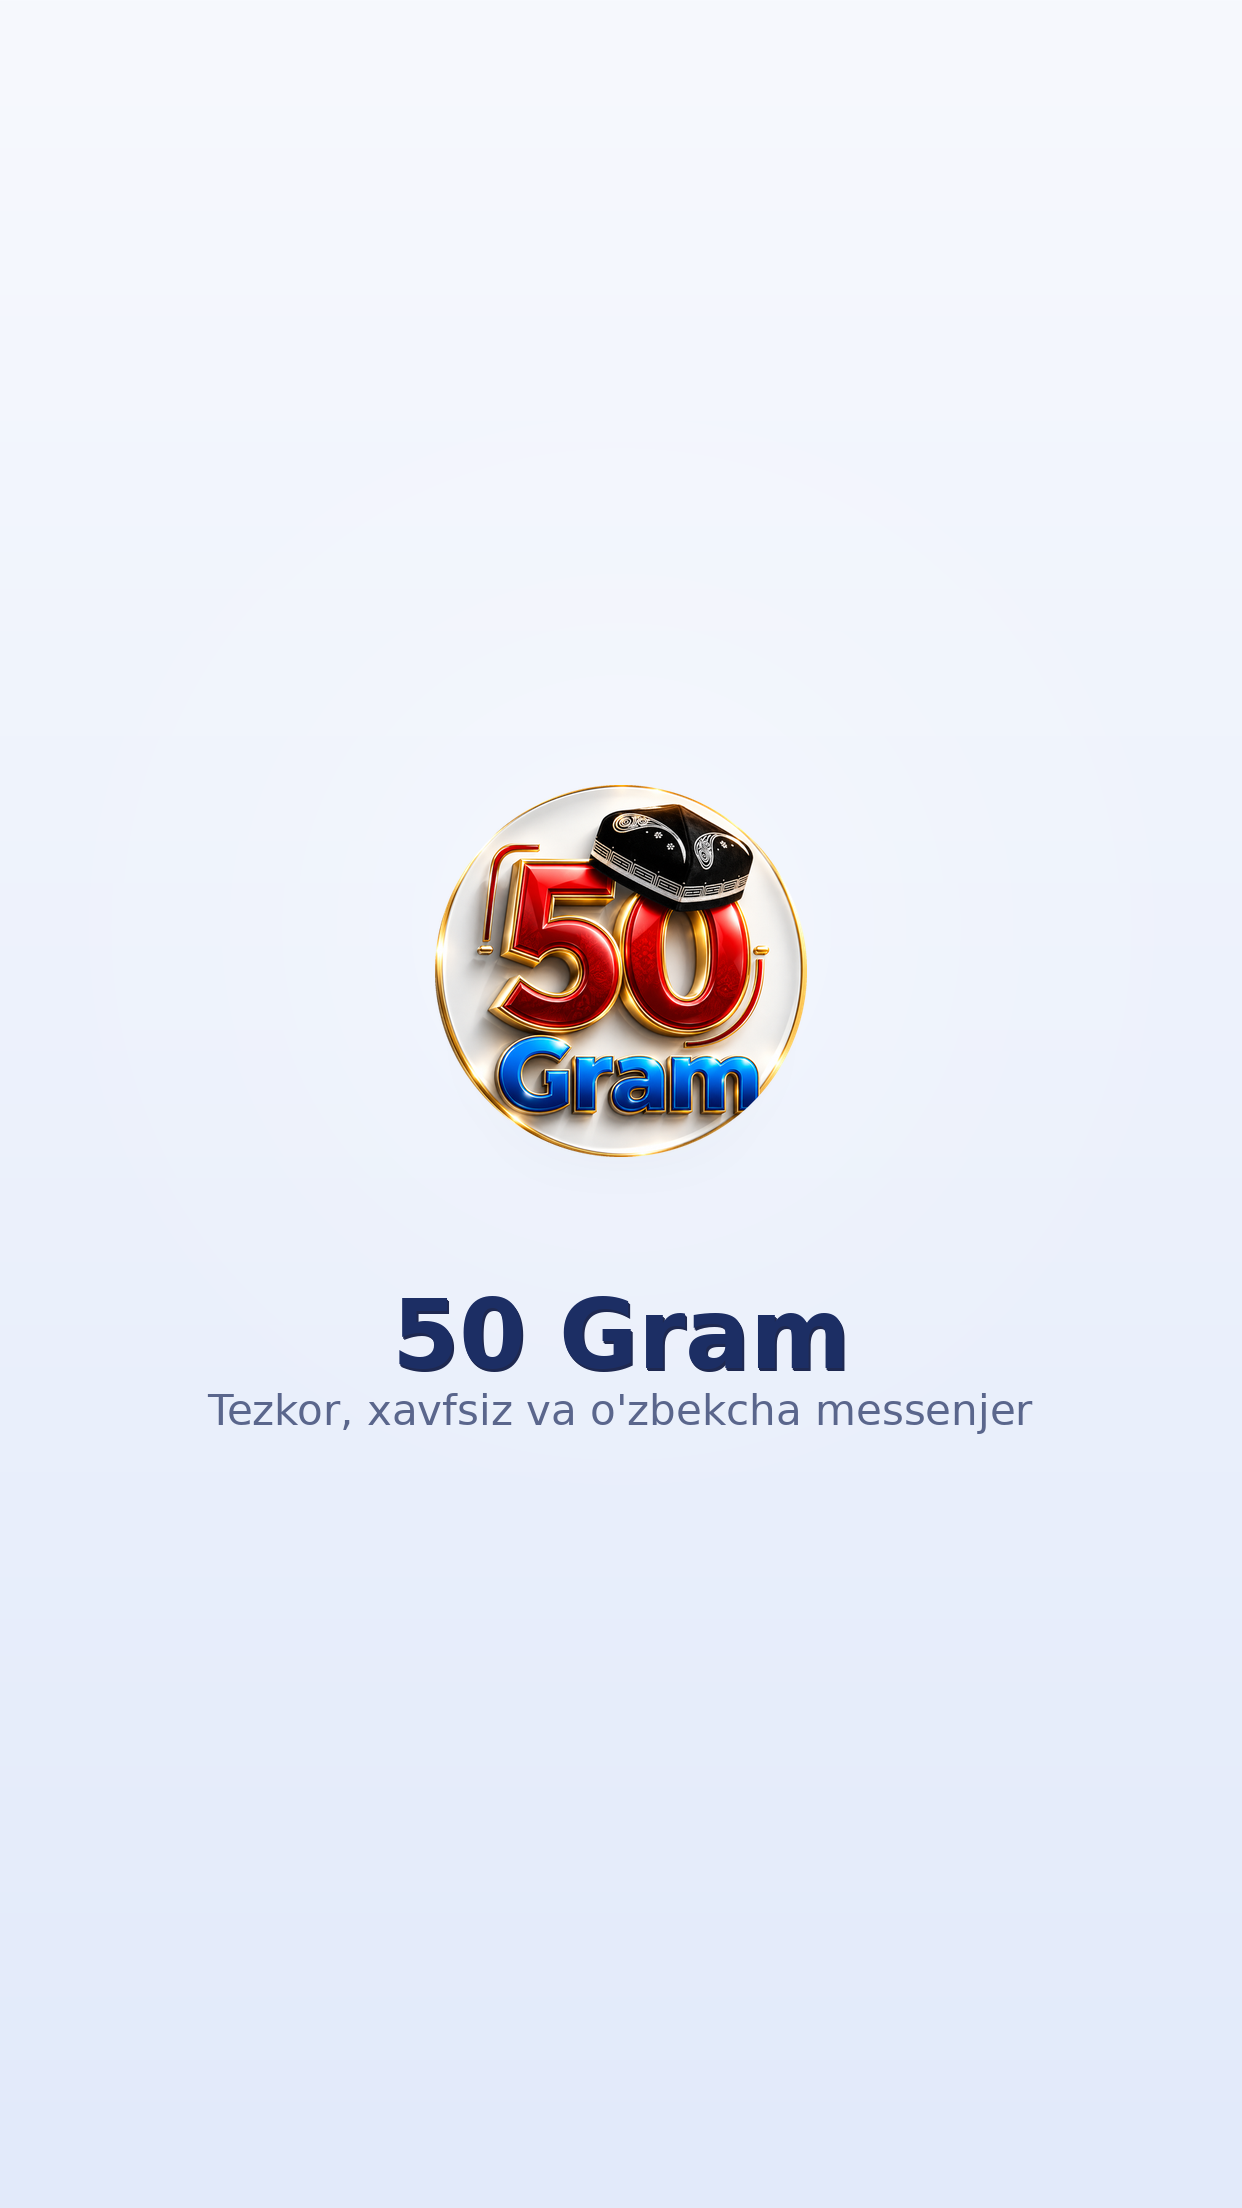
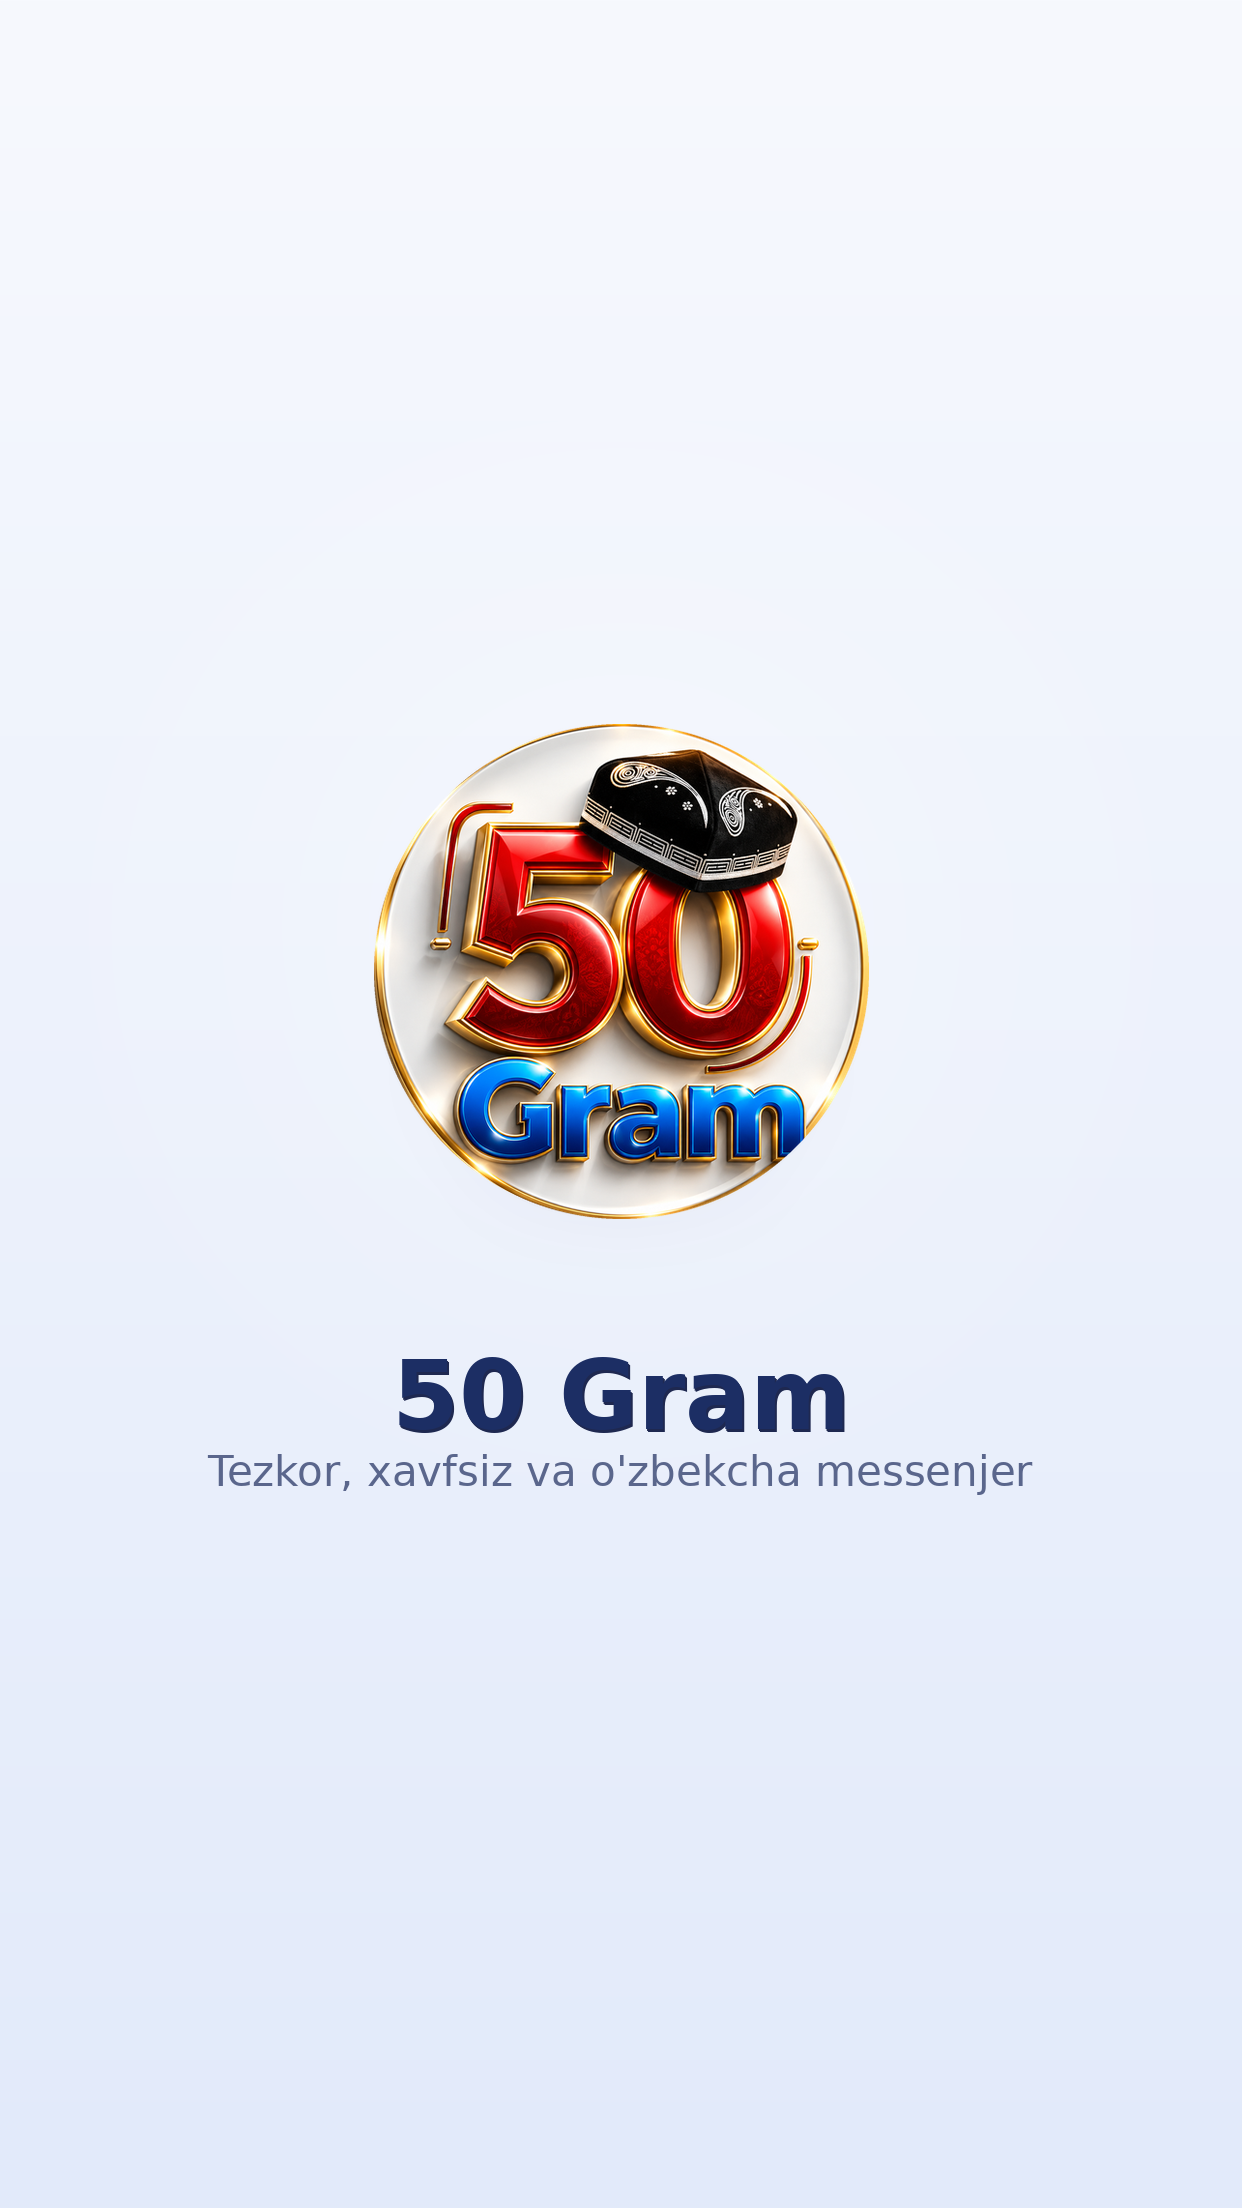
BREND logotipi 3-4x KATTALASHTIRILDI (Task 41): ① kirish sahifasi logotipi 88px → min(300px,74vw,40vh) — telefon brauzer/Android APK/iPhone ilovada 3-3.4x katta, har ekranda sig'adi (max-height 720px'da 36vh moslashuv) ② #auth ichki scrolli tasdiqlandi (kichik ekranlarda pastdagi tugmalar scroll bil

Changed region(s): [[0.2754, 0.3125, 0.8261, 0.6875], [0.1836, 0.625, 0.2754, 0.6875]]

diff --git a/web/style.css b/web/style.css
@@ -34,6 +34,7 @@ input,textarea,select{font:inherit;color:var(--matn)}
 a{color:var(--asos)}
 #app{position:fixed;inset:0;display:flex;background:var(--fon)}
 .scr{position:relative;height:100%}
+#auth{overflow-y:auto;overflow-x:hidden;-webkit-overflow-scrolling:touch}
 
 /* ---------- AUTH — aurora fon + shisha karta ---------- */
 #auth{flex:1;display:flex;padding:24px;background:var(--fon);overflow-y:auto;overflow-x:hidden}
@@ -45,7 +46,8 @@ a{color:var(--asos)}
 @keyframes aurora{0%{transform:translate(0,0) scale(1)}50%{transform:translate(40px,26px) scale(1.12)}100%{transform:translate(-26px,40px) scale(.95)}}
 .auth-box{position:relative;z-index:1;width:100%;max-width:390px;background:rgba(255,255,255,.74);backdrop-filter:blur(24px) saturate(1.5);-webkit-backdrop-filter:blur(24px) saturate(1.5);border-radius:32px;padding:32px 26px;box-shadow:var(--soya2);border:1px solid rgba(255,255,255,.85);text-align:center}
 body.dark .auth-box{background:rgba(20,28,49,.72);border-color:rgba(255,255,255,.09)}
-.logo{height:88px;margin:2px auto 18px;display:block;filter:drop-shadow(0 12px 30px rgba(198,146,32,.45))}
+.logo{height:min(300px,74vw,40vh);margin:2px auto 12px;display:block;filter:drop-shadow(0 12px 30px rgba(198,146,32,.45))}
+@media (max-height:720px){.logo{height:min(250px,64vw,36vh);margin-bottom:8px}}
 .step h2{margin:8px 0 5px;font-size:22px;font-weight:800;letter-spacing:-.4px}
 .step .mut{margin:0 0 18px}
 .phone-in{display:flex;align-items:center;background:rgba(255,255,255,.85);border:1.5px solid var(--chiziq);border-radius:18px;padding:0 16px;margin-bottom:14px;transition:border-color .18s,box-shadow .18s}
@@ -591,7 +593,7 @@ body.dark .sheet .grab{background:linear-gradient(90deg,#31415F,#42527A);box-sha
 @media (min-width:900px){
   .auth-hero{gap:clamp(28px,6vw,96px);max-width:1240px}
   .auth-brand{display:flex;flex-direction:column;align-items:flex-start;text-align:left;flex:1 1 380px;min-width:0;max-width:470px;animation:fadein .5s ease}
-  .brand-logo{height:136px;margin:0 0 22px;filter:drop-shadow(0 18px 40px rgba(198,146,32,.5))}
+  .brand-logo{height:280px;margin:0 0 26px;filter:drop-shadow(0 18px 40px rgba(198,146,32,.5))}
   .auth-brand h1{margin:0 0 12px;font-size:clamp(40px,4.2vw,56px);font-weight:900;letter-spacing:-1.6px;line-height:1.02;color:var(--asos);background:var(--grad);-webkit-background-clip:text;background-clip:text;-webkit-text-fill-color:transparent}
   .brand-tag{margin:0 0 28px;font-size:17px;line-height:1.6;color:var(--xira);max-width:440px}
   .brand-feats{display:grid;grid-template-columns:1fr 1fr;gap:12px;width:100%}

diff --git a/web/manage.js b/web/manage.js
@@ -565,7 +565,7 @@ function pgLanguage() {
 }
 function pgAbout() {
   openPage('50 Gram haqida', `
-    <div class="prof"><img src="logo.png" style="width:132px" alt="50 Gram"><h2>50 Gram</h2><div class="mut">Versiya 2.0 «Zamonaviy» · O‘zbekiston</div></div>
+    <div class="prof"><img src="logo.png" style="width:200px" alt="50 Gram"><h2>50 Gram</h2><div class="mut">Versiya 2.0 «Zamonaviy» · O‘zbekiston</div></div>
     <div class="hint">O‘zbekiston uchun yaratilgan tezkor, xavfsiz messenjer: chatlar, kanallar, istoriyalar, jonli efir (sovg‘a va martaba tizimi bilan), Reels va Shorts lenta, HD qo‘ng‘iroqlar.</div>
     ${rowsHTML([
       `<div>${tile('🔒', '#a5d8ff', '#4dabf7')}<div class="rt">Xavfsizlik<small>Ma’lumotlaringiz himoya ostida</small></div></div>`,

diff --git a/web/sw.js b/web/sw.js
@@ -1,5 +1,5 @@
 // 50 Gram service worker: ilova qobig'ini keshlaydi (oflayn ochiladi) + Telegram-uslubidagi Web Push.
-const V = '50gram-v30'
+const V = '50gram-v31'
 const SHELL = ['./', 'index.html', 'style.css', 'config.js', 'core.js', 'p2p.js', 'storage.js', 'chat.js', 'manage.js', 'social.js', 'rtc.js', 'logo.png', 'icon-192.png', 'icon-512.png', 'maskable-192.png', 'maskable-512.png', 'apple-touch-icon.png', 'favicon.png', 'manifest.json',
   // Task 29: Manrope shrifti + animatsiyali stiker paketlari + sovg'alar
   'fonts/manrope-latin.woff2', 'fonts/manrope-latin-ext.woff2',
